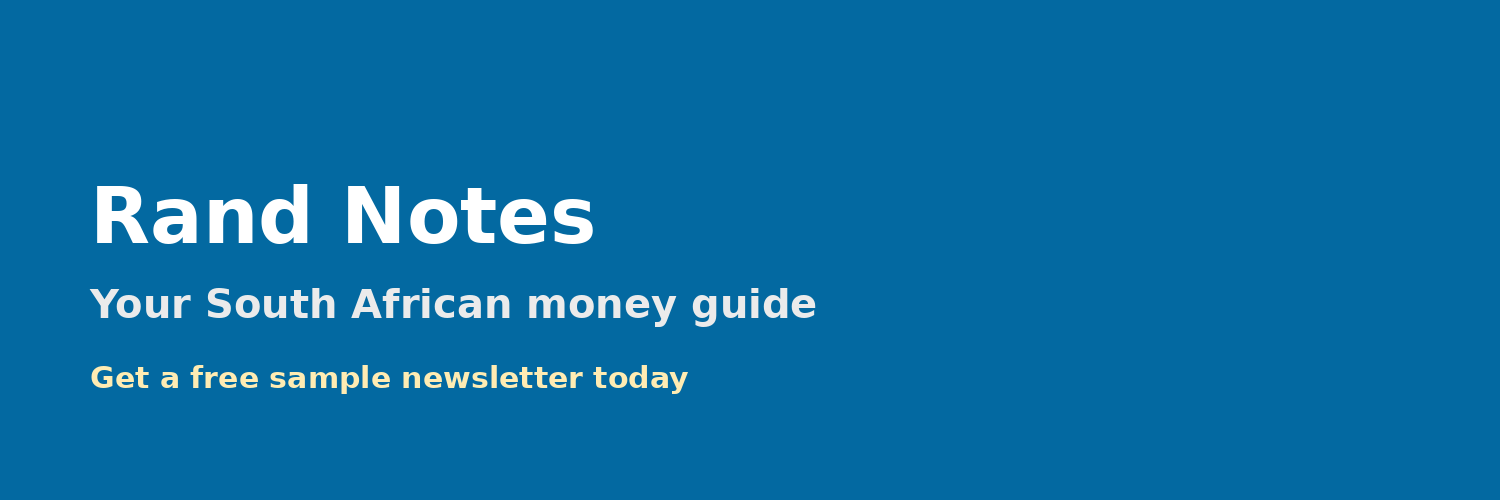
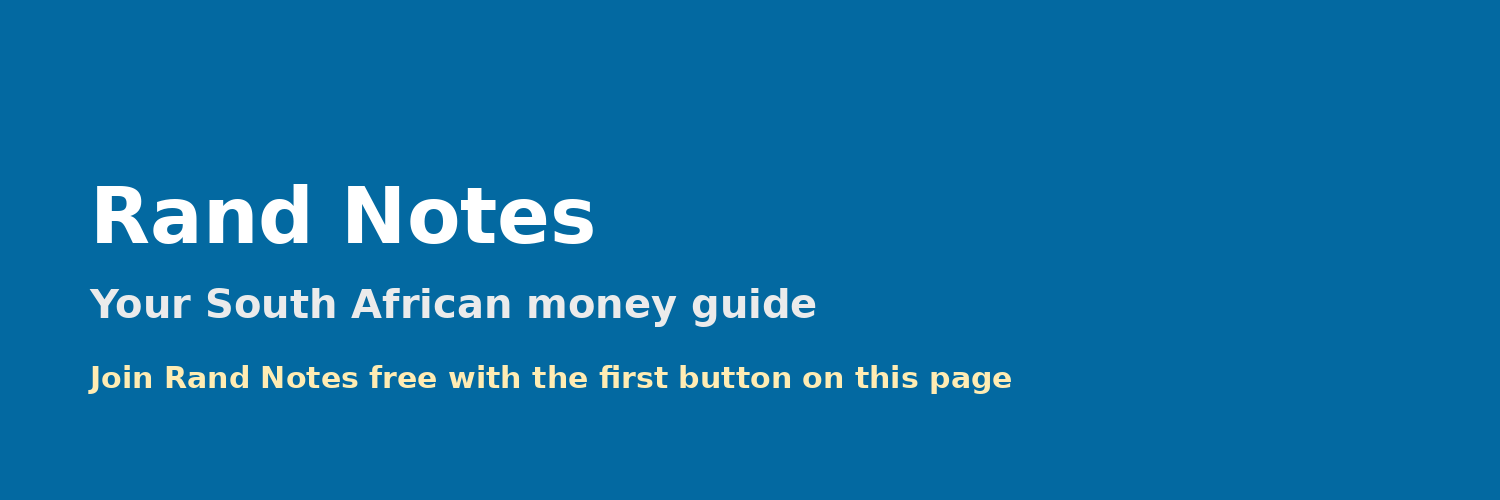
Real Whop checkouts for market research, pitch deck, presentation redesign, Rand Ready; Rand Notes free Whop signup

Changed region(s): [[0.0613, 0.72, 0.6747, 0.78]]

diff --git a/rand-notes/index.html b/rand-notes/index.html
@@ -1,9 +1,9 @@
 <!doctype html><html lang="en"><head><meta charset="utf-8"><meta name="viewport" content="width=device-width,initial-scale=1"><title>Rand Notes | Your South African money guide</title><meta name="description" content="Get smart on South African finance news and tips"><link rel="icon" href="favicon.png"><link rel="icon" type="image/svg+xml" href="logo.svg"><meta property="og:title" content="Rand Notes | Your South African money guide"><meta property="og:description" content="Get smart on South African finance news and tips"><meta property="og:image" content="https://zeyadvaryana-creator.github.io/studios/rand-notes/og.png"><meta property="og:url" content="https://zeyadvaryana-creator.github.io/studios/rand-notes/"><meta name="twitter:card" content="summary_large_image"><style>*{box-sizing:border-box}body{margin:0;font-family:system-ui,Segoe UI,Arial,sans-serif;color:#0f172a;line-height:1.6;background:#f8fafc}a{color:#0369a1}.w{max-width:1040px;margin:auto;padding:0 20px}header{background:#fff;border-bottom:1px solid #e2e8f0}header .w{display:flex;align-items:center;gap:12px;padding:14px 20px}header nav{margin-left:auto;display:flex;gap:16px;font-size:15px}header nav a{text-decoration:none;color:#334155}.hero{background:#0369a1;color:#fff;padding:72px 0}.hero h1{font-size:40px;line-height:1.15;margin:0 0 14px}.hero p{font-size:19px;max-width:700px;opacity:.95}.btn{display:inline-block;background:#fff;color:#0369a1;padding:13px 22px;border-radius:10px;font-weight:700;text-decoration:none;margin:8px 8px 0 0}.btn.s{background:#0369a1;color:#fff}.btn.o{background:transparent;color:#fff;border:2px solid #fff}section{padding:56px 0}section:nth-child(even){background:#fff}h2{font-size:28px;margin:0 0 18px}.g{display:grid;grid-template-columns:repeat(auto-fit,minmax(260px,1fr));gap:18px}.c{background:#fff;border:1px solid #e2e8f0;border-radius:14px;padding:22px}.c.f{border:2px solid #0369a1}.pr{font-size:26px;font-weight:800;color:#0369a1}.tag{display:inline-block;background:#fef3c7;color:#92400e;font-size:13px;font-weight:700;padding:3px 10px;border-radius:99px}details{background:#fff;border:1px solid #e2e8f0;border-radius:10px;padding:14px 18px;margin-bottom:10px}summary{font-weight:700;cursor:pointer}footer{background:#0f172a;color:#cbd5e1;padding:36px 0;font-size:15px}footer a{color:#fff}ol li,ul li{margin-bottom:6px}@media(max-width:600px){.hero h1{font-size:30px}header nav{display:none}}</style></head><body><header><div class="w"><img src="logo.svg" width="40" height="40" alt="Rand Notes logo"><strong>Rand Notes</strong><nav><a href="#pricing">Pricing</a><a href="#how">How it works</a><a href="#sample">Sample</a><a href="#faq">FAQ</a><a href="#contact">Contact</a></nav></div></header><div class="hero"><div class="w"><h1>Stay ahead with Rand Notes</h1><p>Get smart on South African finance news and tips</p><a class="btn" href="#free">Get your free first step</a><a class="btn o" href="#pricing">See prices</a></div></div>
 <section><div class="w"><h2>The offer</h2><p><b>For:</b> SA investors</p><p><b>You get:</b> make better financial choices</p></div></section>
-<section id="pricing"><div class="w"><h2>Pricing</h2><div class="g"><div class="c"><h3>single</h3><div class="pr">See price at checkout</div><ul><li>weekly newsletter</li><li>money tips</li><li>product plugs</li></ul><a class="btn s" href="mailto:zeyadshustle@gmail.com?subject=Subscribe%20to%20Rand%20Notes">Buy now</a></div><div class="c f"><h3>bundle</h3><div class="pr">Custom quote</div><ul><li>exclusive content</li><li>Smart Start SA products</li><li>advice from experts</li></ul><a class="btn s" href="mailto:zeyadshustle@gmail.com?subject=Rand%20Notes%3A%20invoice%20for%20bundle">Request invoice</a></div><div class="c"><h3>custom quote</h3><div class="pr">Custom quote</div><ul><li>tailored advice</li><li>personalized updates</li><li>priority support</li></ul><a class="btn s" href="mailto:zeyadshustle@gmail.com?subject=Rand%20Notes%3A%20invoice%20for%20custom%20quote">Request invoice</a></div></div><p style="font-size:14px;color:#475569">Prefer to pay by invoice? <a href="mailto:zeyadshustle@gmail.com?subject=Rand%20Notes%3A%20invoice">Email us</a> and we send one.</p></div></section>
+<section id="pricing"><div class="w"><h2>Pricing</h2><div class="g"><div class="c"><h3>Rand Notes</h3><div class="pr">Free</div><ul><li>Free South African money notes by email</li><li>Budgets, SARS and saving in plain words</li><li>General info, not financial advice</li></ul><a class="btn s" href="https://whop.com/checkout/plan_csdj2TQkWZGX7">Buy now</a></div><div class="c f"><h3>R0 Budget Starter</h3><div class="pr">Free</div><ul><li>Free budget starter for South Africa</li><li>Download after a free checkout</li></ul><a class="btn s" href="https://whop.com/checkout/plan_U465j0XTlZSPF">Buy now</a></div><div class="c"><h3>Money Reset Bundle</h3><div class="pr">R149</div><ul><li>Smart Start SA money bundle</li><li>Pay by card on Whop</li></ul><a class="btn s" href="https://whop.com/checkout/plan_hyAaSarcDsCgG">Buy now</a></div></div><p style="font-size:14px;color:#475569">Prefer to pay by invoice? <a href="mailto:zeyadshustle@gmail.com?subject=Rand%20Notes%3A%20invoice">Email us</a> and we send one.</p></div></section>
 <section id="how"><div class="w"><h2>How it works</h2><ol><li>Sign up now</li><li>Read weekly insights</li><li>Grow your wealth</li></ol></div></section>
 <section><div class="w"><h2>What is included</h2><div class="g"><div class="c">We focus on South African markets</div><div class="c">No spam, just useful info</div><div class="c">Easy to understand language</div><div class="c">New content every week</div><div class="c">Helps you save and invest wisely</div></div></div></section>
 <section id="sample"><div class="w"><h2>Sample work</h2><span class="tag">Sample made by us for a made up business. Not a client project.</span><div class="c" style="margin-top:14px"><h3>Example Newsletter for a Pretoria Bakery</h3><p>This week, we explore how a Pretoria bakery can boost profits by tweaking their pricing strategy. We show you how understanding local market trends can help increase sales. Plus, we plug Smart Start SA products that can streamline your operations. Stay tuned for more practical tips tailored for South African businesses.</p></div></div></section>
-<section id="free"><div class="w"><h2>Free first step</h2><p>Get a free sample newsletter today</p><a class="btn s" href="mailto:zeyadshustle@gmail.com?subject=Rand%20Notes%3A%20free%20first%20step">Ask for it free</a></div></section>
+<section id="free"><div class="w"><h2>Free first step</h2><p>Join Rand Notes free with the first button on this page</p><a class="btn s" href="mailto:zeyadshustle@gmail.com?subject=Rand%20Notes%3A%20free%20first%20step">Ask for it free</a></div></section>
 <section id="faq"><div class="w"><h2>FAQ</h2><details><summary>Who is this for</summary><p>SA investors looking for money tips</p></details><details><summary>How often do I get newsletters</summary><p>Every week without fail</p></details><details><summary>What if I dont like it</summary><p>Unsubscribe anytime, no questions asked</p></details><details><summary>Do you cover all SA banks</summary><p>Yes, all major ones included</p></details><details><summary>Can I share with friends</summary><p>Of course, spread the word</p></details><details><summary>Are there ads in the newsletter</summary><p>Yes, but only relevant ones</p></details><details><summary>Will my data be safe</summary><p>Absolutely, privacy is key</p></details></div></section>
 <section><div class="w"><h2>About</h2><p>Rand Notes is a new studio focused on South African finance. A real person checks every piece of content we send out.</p></div></section><footer><div class="w" id="contact"><h2 style="color:#fff">Contact</h2><p>Email <a href="mailto:zeyadshustle@gmail.com?subject=Rand%20Notes">zeyadshustle@gmail.com</a>. We reply within one working day.</p><p><a href="privacy.html">Privacy</a> and <a href="terms.html">Terms</a></p><p>&copy; 2026 Rand Notes</p></div></footer></body></html>

diff --git a/market-research-reports/index.html b/market-research-reports/index.html
@@ -1,6 +1,6 @@
 <!doctype html><html lang="en"><head><meta charset="utf-8"><meta name="viewport" content="width=device-width,initial-scale=1"><title>Market Research Reports | Data driven insights for smarter decisions</title><meta name="description" content="Get the reports you need to stay ahead"><link rel="icon" href="favicon.png"><link rel="icon" type="image/svg+xml" href="logo.svg"><meta property="og:title" content="Market Research Reports | Data driven insights for smarter decisions"><meta property="og:description" content="Get the reports you need to stay ahead"><meta property="og:image" content="https://zeyadvaryana-creator.github.io/studios/market-research-reports/og.png"><meta property="og:url" content="https://zeyadvaryana-creator.github.io/studios/market-research-reports/"><meta name="twitter:card" content="summary_large_image"><style>*{box-sizing:border-box}body{margin:0;font-family:system-ui,Segoe UI,Arial,sans-serif;color:#0f172a;line-height:1.6;background:#f8fafc}a{color:#b45309}.w{max-width:1040px;margin:auto;padding:0 20px}header{background:#fff;border-bottom:1px solid #e2e8f0}header .w{display:flex;align-items:center;gap:12px;padding:14px 20px}header nav{margin-left:auto;display:flex;gap:16px;font-size:15px}header nav a{text-decoration:none;color:#334155}.hero{background:#b45309;color:#fff;padding:72px 0}.hero h1{font-size:40px;line-height:1.15;margin:0 0 14px}.hero p{font-size:19px;max-width:700px;opacity:.95}.btn{display:inline-block;background:#fff;color:#b45309;padding:13px 22px;border-radius:10px;font-weight:700;text-decoration:none;margin:8px 8px 0 0}.btn.s{background:#b45309;color:#fff}.btn.o{background:transparent;color:#fff;border:2px solid #fff}section{padding:56px 0}section:nth-child(even){background:#fff}h2{font-size:28px;margin:0 0 18px}.g{display:grid;grid-template-columns:repeat(auto-fit,minmax(260px,1fr));gap:18px}.c{background:#fff;border:1px solid #e2e8f0;border-radius:14px;padding:22px}.c.f{border:2px solid #b45309}.pr{font-size:26px;font-weight:800;color:#b45309}.tag{display:inline-block;background:#fef3c7;color:#92400e;font-size:13px;font-weight:700;padding:3px 10px;border-radius:99px}details{background:#fff;border:1px solid #e2e8f0;border-radius:10px;padding:14px 18px;margin-bottom:10px}summary{font-weight:700;cursor:pointer}footer{background:#0f172a;color:#cbd5e1;padding:36px 0;font-size:15px}footer a{color:#fff}ol li,ul li{margin-bottom:6px}@media(max-width:600px){.hero h1{font-size:30px}header nav{display:none}}</style></head><body><header><div class="w"><img src="logo.svg" width="40" height="40" alt="Market Research Reports logo"><strong>Market Research Reports</strong><nav><a href="#pricing">Pricing</a><a href="#how">How it works</a><a href="#sample">Sample</a><a href="#faq">FAQ</a><a href="#contact">Contact</a></nav></div></header><div class="hero"><div class="w"><h1>Understand your market and competitors</h1><p>Get the reports you need to stay ahead</p><a class="btn" href="#free">Get your free first step</a><a class="btn o" href="#pricing">See prices</a></div></div>
 <section><div class="w"><h2>The offer</h2><p><b>For:</b> Small business owners</p><p><b>You get:</b> Make informed decisions with our detailed reports</p></div></section>
-<section id="pricing"><div class="w"><h2>Pricing</h2><div class="g"><div class="c"><h3>Entry</h3><div class="pr">$300 1,500 per report</div><ul><li>Basic market overview</li><li>Key competitor analysis</li><li>Top trends in your industry</li></ul><a class="btn s" href="mailto:zeyadshustle@gmail.com?subject=Market%20Research%20Reports%3A%20invoice%20for%20Entry">Request invoice</a></div><div class="c f"><h3>Main</h3><div class="pr">Custom quote</div><ul><li>Detailed market segmentation</li><li>In depth competitor analysis</li><li>Customer behavior insights</li></ul><a class="btn s" href="mailto:zeyadshustle@gmail.com?subject=Market%20Research%20Reports%3A%20invoice%20for%20Main">Request invoice</a></div><div class="c"><h3>Premium</h3><div class="pr">Custom quote</div><ul><li>Comprehensive market analysis</li><li>Advanced competitor benchmarking</li><li>Strategic recommendations</li></ul><a class="btn s" href="mailto:zeyadshustle@gmail.com?subject=Market%20Research%20Reports%3A%20invoice%20for%20Premium">Request invoice</a></div></div><p style="font-size:14px;color:#475569">Prefer to pay by invoice? <a href="mailto:zeyadshustle@gmail.com?subject=Market%20Research%20Reports%3A%20invoice">Email us</a> and we send one.</p></div></section>
+<section id="pricing"><div class="w"><h2>Pricing</h2><div class="g"><div class="c"><h3>Entry</h3><div class="pr">$300</div><ul><li>Basic market overview</li><li>Key competitor analysis</li><li>Top trends in your industry</li></ul><a class="btn s" href="https://whop.com/checkout/plan_hqZAUeSwCWMLl">Buy now</a></div><div class="c f"><h3>Main</h3><div class="pr">Custom quote</div><ul><li>Detailed market segmentation</li><li>In depth competitor analysis</li><li>Customer behavior insights</li></ul><a class="btn s" href="mailto:zeyadshustle@gmail.com?subject=Market%20Research%20Reports%3A%20invoice%20for%20Main">Request invoice</a></div><div class="c"><h3>Premium</h3><div class="pr">Custom quote</div><ul><li>Comprehensive market analysis</li><li>Advanced competitor benchmarking</li><li>Strategic recommendations</li></ul><a class="btn s" href="mailto:zeyadshustle@gmail.com?subject=Market%20Research%20Reports%3A%20invoice%20for%20Premium">Request invoice</a></div></div><p style="font-size:14px;color:#475569">Prefer to pay by invoice? <a href="mailto:zeyadshustle@gmail.com?subject=Market%20Research%20Reports%3A%20invoice">Email us</a> and we send one.</p></div></section>
 <section id="how"><div class="w"><h2>How it works</h2><ol><li>Tell us about your business and needs</li><li>We research and analyze the data</li><li>You receive a detailed report</li></ol></div></section>
 <section><div class="w"><h2>What is included</h2><div class="g"><div class="c">We focus on your specific industry and market</div><div class="c">Our reports are tailored to your business size and goals</div><div class="c">Get insights that help you make better decisions</div><div class="c">No long term contracts or hidden fees</div><div class="c">Fast turnaround times to suit your schedule</div></div></div></section>
 <section id="sample"><div class="w"><h2>Sample work</h2><span class="tag">Sample made by us for a made up business. Not a client project.</span><div class="c" style="margin-top:14px"><h3>Sample Report: Coffee Shop Market Analysis</h3><p>The coffee shop market in Johannesburg is growing steadily with an increase in specialty coffee demand. Key competitors include local chains and independent cafes focusing on unique blends and experiences. Customers value quality, convenience, and a welcoming atmosphere. To stand out, consider offering artisanal brews and creating a cozy environment.</p></div></div></section>

diff --git a/presentation-redesign-for-corporates/index.html b/presentation-redesign-for-corporates/index.html
@@ -1,6 +1,6 @@
 <!doctype html><html lang="en"><head><meta charset="utf-8"><meta name="viewport" content="width=device-width,initial-scale=1"><title>Presentation Redesign | Transform your slides into powerful stories</title><meta name="description" content="Elevate your business pitch with our expert PowerPoint redesign service"><link rel="icon" href="favicon.png"><link rel="icon" type="image/svg+xml" href="logo.svg"><meta property="og:title" content="Presentation Redesign | Transform your slides into powerful stories"><meta property="og:description" content="Elevate your business pitch with our expert PowerPoint redesign service"><meta property="og:image" content="https://zeyadvaryana-creator.github.io/studios/presentation-redesign-for-corporates/og.png"><meta property="og:url" content="https://zeyadvaryana-creator.github.io/studios/presentation-redesign-for-corporates/"><meta name="twitter:card" content="summary_large_image"><style>*{box-sizing:border-box}body{margin:0;font-family:system-ui,Segoe UI,Arial,sans-serif;color:#0f172a;line-height:1.6;background:#f8fafc}a{color:#b45309}.w{max-width:1040px;margin:auto;padding:0 20px}header{background:#fff;border-bottom:1px solid #e2e8f0}header .w{display:flex;align-items:center;gap:12px;padding:14px 20px}header nav{margin-left:auto;display:flex;gap:16px;font-size:15px}header nav a{text-decoration:none;color:#334155}.hero{background:#b45309;color:#fff;padding:72px 0}.hero h1{font-size:40px;line-height:1.15;margin:0 0 14px}.hero p{font-size:19px;max-width:700px;opacity:.95}.btn{display:inline-block;background:#fff;color:#b45309;padding:13px 22px;border-radius:10px;font-weight:700;text-decoration:none;margin:8px 8px 0 0}.btn.s{background:#b45309;color:#fff}.btn.o{background:transparent;color:#fff;border:2px solid #fff}section{padding:56px 0}section:nth-child(even){background:#fff}h2{font-size:28px;margin:0 0 18px}.g{display:grid;grid-template-columns:repeat(auto-fit,minmax(260px,1fr));gap:18px}.c{background:#fff;border:1px solid #e2e8f0;border-radius:14px;padding:22px}.c.f{border:2px solid #b45309}.pr{font-size:26px;font-weight:800;color:#b45309}.tag{display:inline-block;background:#fef3c7;color:#92400e;font-size:13px;font-weight:700;padding:3px 10px;border-radius:99px}details{background:#fff;border:1px solid #e2e8f0;border-radius:10px;padding:14px 18px;margin-bottom:10px}summary{font-weight:700;cursor:pointer}footer{background:#0f172a;color:#cbd5e1;padding:36px 0;font-size:15px}footer a{color:#fff}ol li,ul li{margin-bottom:6px}@media(max-width:600px){.hero h1{font-size:30px}header nav{display:none}}</style></head><body><header><div class="w"><img src="logo.svg" width="40" height="40" alt="Presentation Redesign logo"><strong>Presentation Redesign</strong><nav><a href="#pricing">Pricing</a><a href="#how">How it works</a><a href="#sample">Sample</a><a href="#faq">FAQ</a><a href="#contact">Contact</a></nav></div></header><div class="hero"><div class="w"><h1>Revamp Your Corporate Presentations</h1><p>Elevate your business pitch with our expert PowerPoint redesign service</p><a class="btn" href="#free">Get your free first step</a><a class="btn o" href="#pricing">See prices</a></div></div>
 <section><div class="w"><h2>The offer</h2><p><b>For:</b> marketing managers</p><p><b>You get:</b> win more clients</p></div></section>
-<section id="pricing"><div class="w"><h2>Pricing</h2><div class="g"><div class="c"><h3>Entry</h3><div class="pr">Custom quote</div><ul><li>basic slide layout</li><li>core content refinement</li><li>essential design elements</li></ul><a class="btn s" href="mailto:zeyadshustle@gmail.com?subject=Presentation%20Redesign%3A%20invoice%20for%20Entry">Request invoice</a></div><div class="c f"><h3>Main</h3><div class="pr">Custom quote</div><ul><li>advanced slide design</li><li>custom content creation</li><li>dynamic visual aids</li></ul><a class="btn s" href="mailto:zeyadshustle@gmail.com?subject=Presentation%20Redesign%3A%20invoice%20for%20Main">Request invoice</a></div><div class="c"><h3>Premium</h3><div class="pr">Custom quote</div><ul><li>exclusive branding integration</li><li>interactive elements</li><li>professional animation</li></ul><a class="btn s" href="mailto:zeyadshustle@gmail.com?subject=Presentation%20Redesign%3A%20invoice%20for%20Premium">Request invoice</a></div></div><p style="font-size:14px;color:#475569">Prefer to pay by invoice? <a href="mailto:zeyadshustle@gmail.com?subject=Presentation%20Redesign%3A%20invoice">Email us</a> and we send one.</p></div></section>
+<section id="pricing"><div class="w"><h2>Pricing</h2><div class="g"><div class="c"><h3>Entry</h3><div class="pr">$300</div><ul><li>basic slide layout</li><li>core content refinement</li><li>essential design elements</li></ul><a class="btn s" href="https://whop.com/checkout/plan_FhkvXexxwIy0c">Buy now</a></div><div class="c f"><h3>Main</h3><div class="pr">Custom quote</div><ul><li>advanced slide design</li><li>custom content creation</li><li>dynamic visual aids</li></ul><a class="btn s" href="mailto:zeyadshustle@gmail.com?subject=Presentation%20Redesign%3A%20invoice%20for%20Main">Request invoice</a></div><div class="c"><h3>Premium</h3><div class="pr">Custom quote</div><ul><li>exclusive branding integration</li><li>interactive elements</li><li>professional animation</li></ul><a class="btn s" href="mailto:zeyadshustle@gmail.com?subject=Presentation%20Redesign%3A%20invoice%20for%20Premium">Request invoice</a></div></div><p style="font-size:14px;color:#475569">Prefer to pay by invoice? <a href="mailto:zeyadshustle@gmail.com?subject=Presentation%20Redesign%3A%20invoice">Email us</a> and we send one.</p></div></section>
 <section id="how"><div class="w"><h2>How it works</h2><ol><li>Tell us about your presentation needs</li><li>Our team crafts a tailored solution</li><li>Deliver polished slides that impress</li></ol></div></section>
 <section><div class="w"><h2>What is included</h2><div class="g"><div class="c">We focus on enhancing your message</div><div class="c">Every detail is designed for impact</div><div class="c">Your audience will remember your pitch</div><div class="c">No unnecessary features, just what works</div><div class="c">Real people check every job for excellence</div></div></div></section>
 <section id="sample"><div class="w"><h2>Sample work</h2><span class="tag">Sample made by us for a made up business. Not a client project.</span><div class="c" style="margin-top:14px"><h3>Example Presentation for XYZ Corp</h3><p>For XYZ Corp, we created a sleek and engaging presentation that highlighted their latest product launch. Each slide was carefully crafted to maintain viewer interest, using vibrant visuals and clear messaging. The result was a compelling narrative that effectively communicated key points, ensuring the audience left with a strong understanding of the product&#x27;s value.</p></div></div></section>

diff --git a/pitch-deck-design-service/index.html b/pitch-deck-design-service/index.html
@@ -1,6 +1,6 @@
 <!doctype html><html lang="en"><head><meta charset="utf-8"><meta name="viewport" content="width=device-width,initial-scale=1"><title>PitchDeck Studio | Crafting Compelling Investor Decks</title><meta name="description" content="Captivate investors. Secure funding. Let us elevate your pitch."><link rel="icon" href="favicon.png"><link rel="icon" type="image/svg+xml" href="logo.svg"><meta property="og:title" content="PitchDeck Studio | Crafting Compelling Investor Decks"><meta property="og:description" content="Captivate investors. Secure funding. Let us elevate your pitch."><meta property="og:image" content="https://zeyadvaryana-creator.github.io/studios/pitch-deck-design-service/og.png"><meta property="og:url" content="https://zeyadvaryana-creator.github.io/studios/pitch-deck-design-service/"><meta name="twitter:card" content="summary_large_image"><style>*{box-sizing:border-box}body{margin:0;font-family:system-ui,Segoe UI,Arial,sans-serif;color:#0f172a;line-height:1.6;background:#f8fafc}a{color:#1e40af}.w{max-width:1040px;margin:auto;padding:0 20px}header{background:#fff;border-bottom:1px solid #e2e8f0}header .w{display:flex;align-items:center;gap:12px;padding:14px 20px}header nav{margin-left:auto;display:flex;gap:16px;font-size:15px}header nav a{text-decoration:none;color:#334155}.hero{background:#1e40af;color:#fff;padding:72px 0}.hero h1{font-size:40px;line-height:1.15;margin:0 0 14px}.hero p{font-size:19px;max-width:700px;opacity:.95}.btn{display:inline-block;background:#fff;color:#1e40af;padding:13px 22px;border-radius:10px;font-weight:700;text-decoration:none;margin:8px 8px 0 0}.btn.s{background:#1e40af;color:#fff}.btn.o{background:transparent;color:#fff;border:2px solid #fff}section{padding:56px 0}section:nth-child(even){background:#fff}h2{font-size:28px;margin:0 0 18px}.g{display:grid;grid-template-columns:repeat(auto-fit,minmax(260px,1fr));gap:18px}.c{background:#fff;border:1px solid #e2e8f0;border-radius:14px;padding:22px}.c.f{border:2px solid #1e40af}.pr{font-size:26px;font-weight:800;color:#1e40af}.tag{display:inline-block;background:#fef3c7;color:#92400e;font-size:13px;font-weight:700;padding:3px 10px;border-radius:99px}details{background:#fff;border:1px solid #e2e8f0;border-radius:10px;padding:14px 18px;margin-bottom:10px}summary{font-weight:700;cursor:pointer}footer{background:#0f172a;color:#cbd5e1;padding:36px 0;font-size:15px}footer a{color:#fff}ol li,ul li{margin-bottom:6px}@media(max-width:600px){.hero h1{font-size:30px}header nav{display:none}}</style></head><body><header><div class="w"><img src="logo.svg" width="40" height="40" alt="PitchDeck Studio logo"><strong>PitchDeck Studio</strong><nav><a href="#pricing">Pricing</a><a href="#how">How it works</a><a href="#sample">Sample</a><a href="#faq">FAQ</a><a href="#contact">Contact</a></nav></div></header><div class="hero"><div class="w"><h1>Stand Out with Engaging Pitch Decks</h1><p>Captivate investors. Secure funding. Let us elevate your pitch.</p><a class="btn" href="#free">Get your free first step</a><a class="btn o" href="#pricing">See prices</a></div></div>
 <section><div class="w"><h2>The offer</h2><p><b>For:</b> Early stage startups seeking investment</p><p><b>You get:</b> A persuasive, professional investor deck that nails your pitch</p></div></section>
-<section id="pricing"><div class="w"><h2>Pricing</h2><div class="g"><div class="c"><h3>Entry</h3><div class="pr">$500, $2,500</div><ul><li>Up to 20 slides</li><li>Standard design and layout</li><li>Two rounds of revisions</li></ul><a class="btn s" href="mailto:zeyadshustle@gmail.com?subject=PitchDeck%20Studio%3A%20invoice%20for%20Entry">Request invoice</a></div><div class="c f"><h3>Main</h3><div class="pr">Custom quote</div><ul><li>20 40 slides</li><li>Original design and custom illustrations</li><li>Unlimited revisions</li><li>Slide animation and transitions</li></ul><a class="btn s" href="mailto:zeyadshustle@gmail.com?subject=PitchDeck%20Studio%3A%20invoice%20for%20Main">Request invoice</a></div><div class="c"><h3>Premium</h3><div class="pr">Custom quote</div><ul><li>40+ slides</li><li>High end design and interactive features</li><li>Unlimited revisions</li><li>Slide animation, transitions, and custom icons</li></ul><a class="btn s" href="mailto:zeyadshustle@gmail.com?subject=PitchDeck%20Studio%3A%20invoice%20for%20Premium">Request invoice</a></div></div><p style="font-size:14px;color:#475569">Prefer to pay by invoice? <a href="mailto:zeyadshustle@gmail.com?subject=PitchDeck%20Studio%3A%20invoice">Email us</a> and we send one.</p></div></section>
+<section id="pricing"><div class="w"><h2>Pricing</h2><div class="g"><div class="c"><h3>Entry</h3><div class="pr">$500</div><ul><li>Up to 20 slides</li><li>Standard design and layout</li><li>Two rounds of revisions</li></ul><a class="btn s" href="https://whop.com/checkout/plan_nKbocoG390PQ3">Buy now</a></div><div class="c f"><h3>Main</h3><div class="pr">Custom quote</div><ul><li>20 40 slides</li><li>Original design and custom illustrations</li><li>Unlimited revisions</li><li>Slide animation and transitions</li></ul><a class="btn s" href="mailto:zeyadshustle@gmail.com?subject=PitchDeck%20Studio%3A%20invoice%20for%20Main">Request invoice</a></div><div class="c"><h3>Premium</h3><div class="pr">Custom quote</div><ul><li>40+ slides</li><li>High end design and interactive features</li><li>Unlimited revisions</li><li>Slide animation, transitions, and custom icons</li></ul><a class="btn s" href="mailto:zeyadshustle@gmail.com?subject=PitchDeck%20Studio%3A%20invoice%20for%20Premium">Request invoice</a></div></div><p style="font-size:14px;color:#475569">Prefer to pay by invoice? <a href="mailto:zeyadshustle@gmail.com?subject=PitchDeck%20Studio%3A%20invoice">Email us</a> and we send one.</p></div></section>
 <section id="how"><div class="w"><h2>How it works</h2><ol><li>Design thinking approach to understand your business</li><li>Custom, on brand deck creation</li><li>FIBA certified designer with real world pitch experience</li></ol></div></section>
 <section><div class="w"><h2>What is included</h2><div class="g"><div class="c">Work directly with the designer</div><div class="c">Fast turnaround times</div><div class="c">Free mockup of your first slide before you commit</div><div class="c">Money back satisfaction promise</div></div></div></section>
 <section id="sample"><div class="w"><h2>Sample work</h2><span class="tag">Sample made by us for a made up business. Not a client project.</span><div class="c" style="margin-top:14px"><h3>Example: PitchDeck for TechStart</h3><p>For TechStart, we created a 25 slide investor deck that clearly articulated their value proposition, market opportunity, and team. Using their bold, innovative brand, we designed an engaging, easy to read deck that helped them secure seed funding.</p></div></div></section>

diff --git a/rand-ready/index.html b/rand-ready/index.html
@@ -1,6 +1,6 @@
 <!doctype html><html lang="en"><head><meta charset="utf-8"><meta name="viewport" content="width=device-width,initial-scale=1"><title>Rand Ready | Smart Money Tips in Shorts</title><meta name="description" content="Watch, Learn, Grow with Rand Ready&#x27;s SA Money Tips Shorts"><link rel="icon" href="favicon.png"><link rel="icon" type="image/svg+xml" href="logo.svg"><meta property="og:title" content="Rand Ready | Smart Money Tips in Shorts"><meta property="og:description" content="Watch, Learn, Grow with Rand Ready&#x27;s SA Money Tips Shorts"><meta property="og:image" content="https://zeyadvaryana-creator.github.io/studios/rand-ready/og.png"><meta property="og:url" content="https://zeyadvaryana-creator.github.io/studios/rand-ready/"><meta name="twitter:card" content="summary_large_image"><style>*{box-sizing:border-box}body{margin:0;font-family:system-ui,Segoe UI,Arial,sans-serif;color:#0f172a;line-height:1.6;background:#f8fafc}a{color:#115e59}.w{max-width:1040px;margin:auto;padding:0 20px}header{background:#fff;border-bottom:1px solid #e2e8f0}header .w{display:flex;align-items:center;gap:12px;padding:14px 20px}header nav{margin-left:auto;display:flex;gap:16px;font-size:15px}header nav a{text-decoration:none;color:#334155}.hero{background:#115e59;color:#fff;padding:72px 0}.hero h1{font-size:40px;line-height:1.15;margin:0 0 14px}.hero p{font-size:19px;max-width:700px;opacity:.95}.btn{display:inline-block;background:#fff;color:#115e59;padding:13px 22px;border-radius:10px;font-weight:700;text-decoration:none;margin:8px 8px 0 0}.btn.s{background:#115e59;color:#fff}.btn.o{background:transparent;color:#fff;border:2px solid #fff}section{padding:56px 0}section:nth-child(even){background:#fff}h2{font-size:28px;margin:0 0 18px}.g{display:grid;grid-template-columns:repeat(auto-fit,minmax(260px,1fr));gap:18px}.c{background:#fff;border:1px solid #e2e8f0;border-radius:14px;padding:22px}.c.f{border:2px solid #115e59}.pr{font-size:26px;font-weight:800;color:#115e59}.tag{display:inline-block;background:#fef3c7;color:#92400e;font-size:13px;font-weight:700;padding:3px 10px;border-radius:99px}details{background:#fff;border:1px solid #e2e8f0;border-radius:10px;padding:14px 18px;margin-bottom:10px}summary{font-weight:700;cursor:pointer}footer{background:#0f172a;color:#cbd5e1;padding:36px 0;font-size:15px}footer a{color:#fff}ol li,ul li{margin-bottom:6px}@media(max-width:600px){.hero h1{font-size:30px}header nav{display:none}}</style></head><body><header><div class="w"><img src="logo.svg" width="40" height="40" alt="Rand Ready logo"><strong>Rand Ready</strong><nav><a href="#pricing">Pricing</a><a href="#how">How it works</a><a href="#sample">Sample</a><a href="#faq">FAQ</a><a href="#contact">Contact</a></nav></div></header><div class="hero"><div class="w"><h1>Boost Your Money Moves</h1><p>Watch, Learn, Grow with Rand Ready&#x27;s SA Money Tips Shorts</p><a class="btn" href="#free">Get your free first step</a><a class="btn o" href="#pricing">See prices</a></div></div>
 <section><div class="w"><h2>The offer</h2><p><b>For:</b> South African budget conscious financially savvy individual</p><p><b>You get:</b> Smart money strategies to save and grow your rand</p></div></section>
-<section id="pricing"><div class="w"><h2>Pricing</h2><div class="g"><div class="c"><h3>Silver Shorts</h3><div class="pr">R49</div><ul><li>Weekly money tips Shorts</li><li>Smart Start SA product teaser</li></ul><a class="btn s" href="mailto:zeyadshustle@gmail.com?subject=Rand%20Ready%3A%20invoice%20for%20Silver%20Shorts">Request invoice</a></div><div class="c f"><h3>Gold Shorts</h3><div class="pr">Custom quote</div><ul><li>Weekly money tips Shorts</li><li>Exclusive Smart Start SA product access</li><li>Monthly ask me anything session</li></ul><a class="btn s" href="mailto:zeyadshustle@gmail.com?subject=Rand%20Ready%3A%20invoice%20for%20Gold%20Shorts">Request invoice</a></div><div class="c"><h3>Platinum Shorts</h3><div class="pr">R599</div><ul><li>Daily money tips Shorts</li><li>Priority Smart Start SA product access</li><li>Personal financial plan review</li></ul><a class="btn s" href="mailto:zeyadshustle@gmail.com?subject=Rand%20Ready%3A%20invoice%20for%20Platinum%20Shorts">Request invoice</a></div></div><p style="font-size:14px;color:#475569">Prefer to pay by invoice? <a href="mailto:zeyadshustle@gmail.com?subject=Rand%20Ready%3A%20invoice">Email us</a> and we send one.</p></div></section>
+<section id="pricing"><div class="w"><h2>Pricing</h2><div class="g"><div class="c"><h3>R0 Budget Starter</h3><div class="pr">Free</div><ul><li>Free budget starter for South Africa</li><li>Download after a free checkout</li></ul><a class="btn s" href="https://whop.com/checkout/plan_U465j0XTlZSPF">Buy now</a></div><div class="c f"><h3>SARS Made Simple</h3><div class="pr">R149</div><ul><li>Tax guide for freelancers and side hustlers</li><li>Pay by card on Whop</li></ul><a class="btn s" href="https://whop.com/checkout/plan_zJfpGPWShW13W">Buy now</a></div><div class="c"><h3>Money Reset Bundle</h3><div class="pr">R149</div><ul><li>Smart Start SA money bundle</li><li>Pay by card on Whop</li></ul><a class="btn s" href="https://whop.com/checkout/plan_hyAaSarcDsCgG">Buy now</a></div></div><p style="font-size:14px;color:#475569">Prefer to pay by invoice? <a href="mailto:zeyadshustle@gmail.com?subject=Rand%20Ready%3A%20invoice">Email us</a> and we send one.</p></div></section>
 <section id="how"><div class="w"><h2>How it works</h2><ol><li>Witty money tips in under 60 seconds</li><li>Real life SA examples</li><li>Engaging Shorts format</li></ol></div></section>
 <section><div class="w"><h2>What is included</h2><div class="g"><div class="c">No/subscription fees</div><div class="c">Cancel anytime</div><div class="c">First Short free</div></div></div></section>
 <section id="sample"><div class="w"><h2>Sample work</h2><span class="tag">Sample made by us for a made up business. Not a client project.</span><div class="c" style="margin-top:14px"><h3>S kỳ cà Phê</h3><p>Imagine you&#x27;re a barista, spending R10 daily on a coffee. That&#x27;s R300/month! Cut to half that for a year (R150/month) and invest the rest. At 10% interest, you&#x27;d have R7800 in a year. Worth it? That&#x27;s a Rand Ready tip in Shorts format!</p></div></div></section>

diff --git a/rand-notes/profile.md b/rand-notes/profile.md
@@ -1,7 +1,7 @@
 # Rand Notes profile text
 
 Short bio (160):
-Rand Notes: Your South African money guide. Get a free sample newsletter today
+Rand Notes: Your South African money guide. Join Rand Notes free with the first button on this page
 
 Headline:
 Stay ahead with Rand Notes
